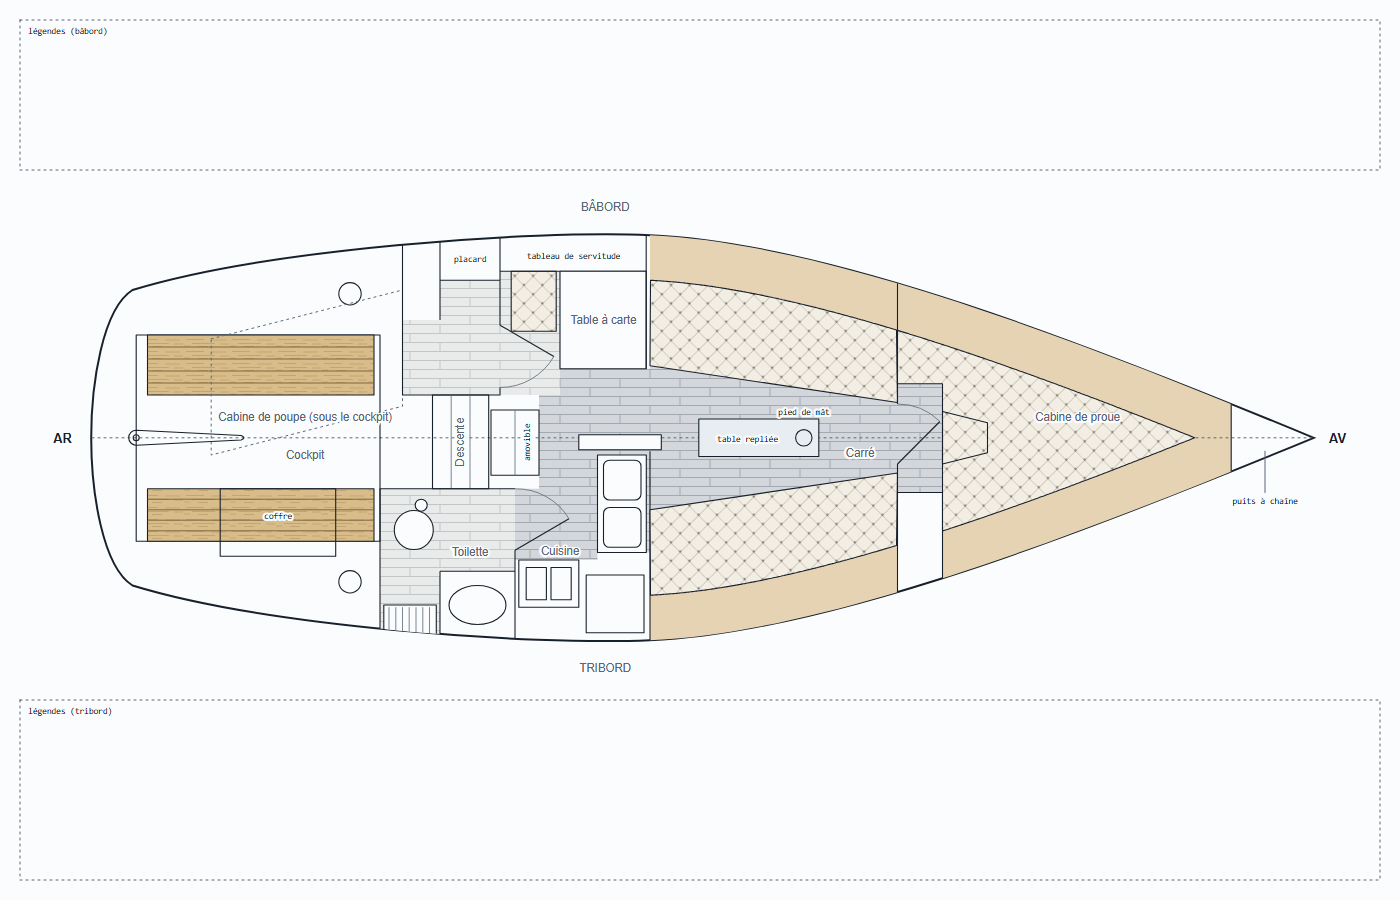
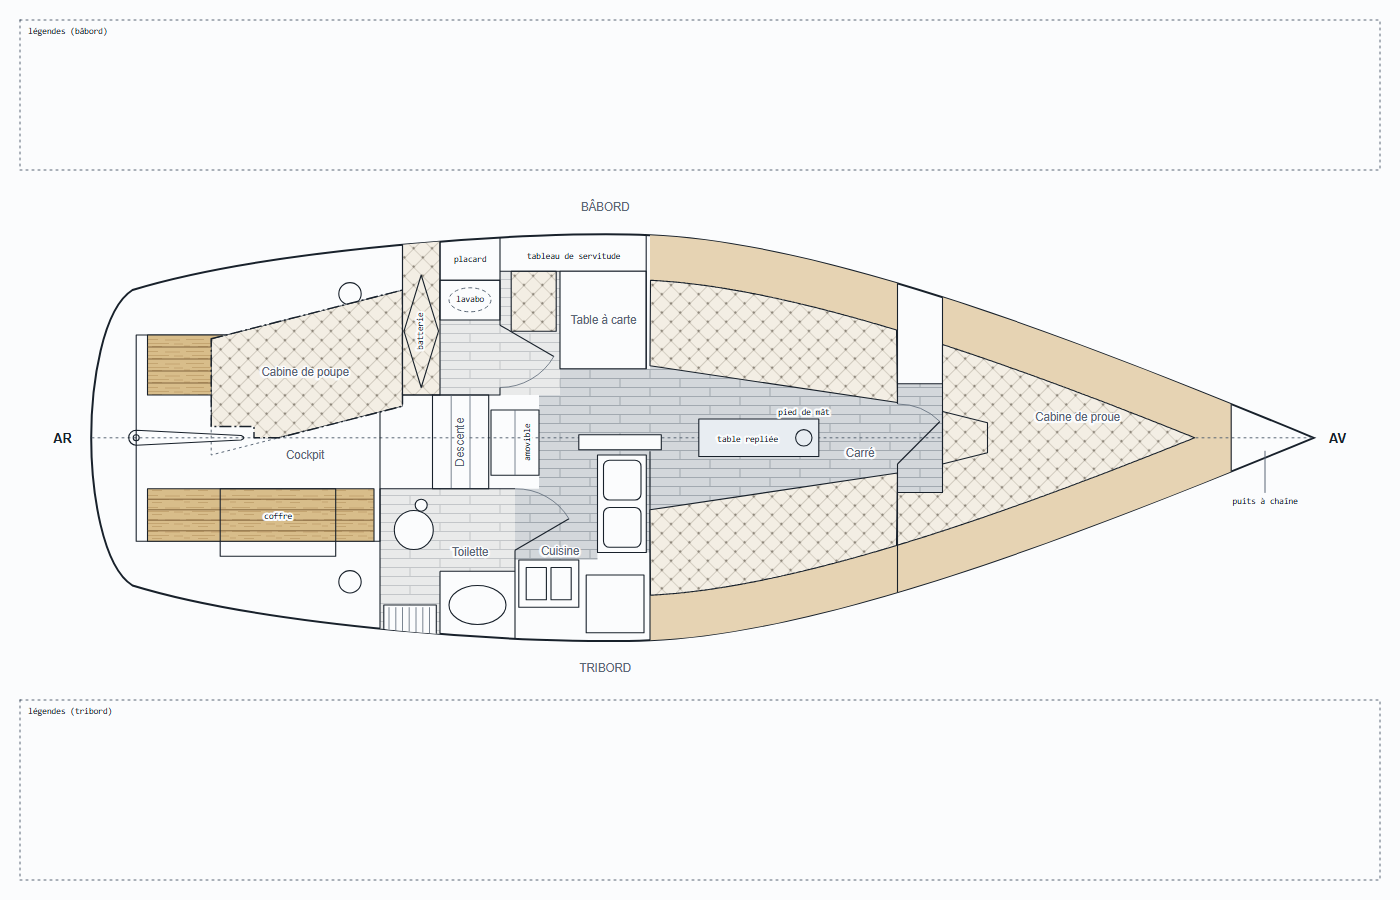
Plan de bord : cabine de proue prolongée à tribord, literie de la cabine de poupe
Correction : c'est la penderie tribord qui est supprimée, la bâbord revient.
Cabine de poupe : literie prolongée jusqu'au meuble, trappe en losange
d'accès à la batterie, meuble bas du lavabo déposé, arrachement du cockpit
côté bâbord jusqu'à l'axe, sans toucher la barre.

Changed region(s): [[0.1229, 0.2489, 0.3686, 0.4978], [0.6143, 0.5289, 0.6757, 0.6533], [0.6143, 0.3111, 0.6757, 0.4356]]

diff --git a/brouillons/plan-de-bord/plan_bord.py b/brouillons/plan-de-bord/plan_bord.py
@@ -23,6 +23,8 @@ STYLE = STYLE.replace("  </style>", """    .amg{fill:none;stroke:var(--ink);stro
     .teck{fill:url(#pb-teck);stroke:var(--ink);stroke-width:1.1;stroke-linejoin:round}
     .teck-j{fill:none;stroke:var(--teck-j);stroke-width:.9}
     .vaig{fill:none;stroke:var(--vaig)}
+    .amg-d{fill:none;stroke:var(--muted);stroke-width:1;stroke-dasharray:4 3}
+    .arr{fill:none;stroke:var(--ink);stroke-width:1.4;stroke-dasharray:12 3 2 3;stroke-linejoin:round}
   </style>""")
 # textures (motifs en px)
 DEFS = """  <defs>
@@ -143,15 +145,15 @@ A(f'<path class="hull" d="{coque}"/>')
 A('<g clip-path="url(#pb-coque)">')
 
 A('<!-- Vaigrages latéraux, du bord au dossier (carré, cabine de proue) -->')
-A(f'<clipPath id="pb-vaig">{rect("", 760, 0, 1090, 700)}{rect("", 1090, 0, 1150, CY)}{rect("", 1150, 0, 1535, 700)}</clipPath>')
+A(f'<clipPath id="pb-vaig">{rect("", 760, 0, 1090, 700)}{rect("", 1090, CY, 1150, 700)}{rect("", 1150, 0, 1535, 700)}</clipPath>')
 A('<g clip-path="url(#pb-vaig)">')
 A(f'<path class="vaig" d="{coque}" stroke-width="{2 * K * 60:.1f}"/>')   # trait centré sur le bord : moitié visible
 A('</g>')
 
 A('<!-- Planchers, jusqu’au milieu des assises. Niveau bas : carré, cuisine ; '
   'niveau haut : cabine de poupe, table à carte, cabinet de toilette -->')
-A(path("sol-h", (480, 112), (560, 112), (560, 100), (755, 100), (755, 230),
-       (640, 230), (640, 265), (430, 265), (430, 165), (480, 165), close=True))
+A(path("sol-h", (480, 165), (560, 165), (560, 100), (755, 100), (755, 230),
+       (640, 230), (640, 265), (480, 265), close=True))
 A(path("sol-h", (400, 390), (580, 390), (580, 500), (480, 500), (480, 598), (400, 598), close=True))
 db = dossier(760, 1090)
 mi = [(x, (y + 226 + (x - 760) * 49 / 330) / 2) for x, y in db]   # milieu entre dossier et bord d'assise
@@ -179,7 +181,21 @@ A(f'<path class="amg" d="M{P(75, CY-10)} L{P(215, CY-3)} Q{P(222, CY)} {P(215, C
 A(circle("amg", 75, CY, 4))                  # mèche
 A(path("bound", (175, 190), (430, 125), (430, 280), (175, 345), close=True))  # couchette sous cockpit
 
-A('<!-- Accès à la cabine de poupe : passage, placard, porte -->')
+A('<!-- Arrachement du cockpit : couchette de la cabine de poupe, côté bâbord jusqu’à l’axe, sans toucher la barre -->')
+arr = [(175, 190), (430, 125), (430, 280), (265, CY), (232, CY), (232, CY-15), (175, CY-15)]
+A(f'<clipPath id="pb-arr">{path("", *arr, close=True)}</clipPath>')
+A(path("bg", *arr, close=True))
+A('<g clip-path="url(#pb-arr)">')
+A(path("mat", (175, 190), (430, 125), (430, 280), (175, 345), close=True))
+A('</g>')
+A(path("arr", *arr, close=True))
+
+A('<!-- Cabine de poupe : literie prolongée jusqu’au meuble, trappe en losange (batterie), '
+  'meuble bas du lavabo déposé, placard, porte -->')
+A(rect("mat", 430, 40, 480, 265))
+A(path("amg", (455, 105), (478, 180), (455, 255), (432, 180), close=True))   # pièce amovible, accès batterie
+A(rect("amg-b", 480, 112, 560, 165))         # meuble bas
+A(ellipse("amg-d", 520, 138, 28, 16))        # emplacement du lavabo déposé
 A(path("amg", (560, 255), (560, 265), (430, 265), (430, 52)))
 A(path("amg", (560, 172), (560, 47)))
 A(path("amg", (480, 52), (480, 165)))
@@ -229,18 +245,18 @@ A(path("mat", *[(x, M(y)) for x, y in db], (1090, M(275)), (760, M(226)), close=
 A(rect("amg-f", 825, CY-25, 985, CY+25))     # table repliée, sur l'axe
 A(circle("amg", 965, CY, 11))                # pied de mât, dans la table, à son bout avant
 
-A('<!-- Cloison avant du carré, penderie tribord, porte de la cabine de proue -->')
+A('<!-- Cloison avant du carré, penderie bâbord, porte de la cabine de proue -->')
 A(path("amg", (1090, 40), (1090, 277)))
 A(path("amg", (1090, 357), (1090, 604)))
-A(path("amg", (1150, 604), (1150, 395), (1090, 395)))
+A(path("amg", (1150, 40), (1150, 250), (1090, 250)))
 A(porte((1090, 357), (1090, 277), (1146.6, 300.4)))
 
 A('<!-- Cabine de proue : couchette en V entre les dossiers, qui se rejoignent derrière le puits à chaîne ; '
-  'à bâbord, elle se prolonge jusqu’au carré -->')
-dpb = dossier(1090, 1700)
+  'à tribord, elle se prolonge jusqu’au carré -->')
 dp = dossier(1150, 1700)
-A(path("mat", (1090, dpb[0][1]), *dpb, *[(x, M(y)) for x, y in reversed(dp[:-1])],
-       (1150, M(dp[0][1])), (1150, 250), (1090, 250), close=True))
+dpt = dossier(1090, 1700)
+A(path("mat", (1150, dp[0][1]), *dp, *[(x, M(y)) for x, y in reversed(dpt[:-1])],
+       (1090, M(dpt[0][1])), (1090, 395), (1150, 395), close=True))
 A(path("amg", (1150, 287), (1210, 302), (1210, 342), (1150, 357), close=True))  # trapèze, sur le bord de la couchette
 A(path("amg", (1535, 150), (1535, 494)))     # cloison du puits à chaîne
 
@@ -248,7 +264,7 @@ A('</g>')
 # repères d'orientation et zones (provisoires)
 LBL = [
     ("Cockpit", 300, 350),
-    ("Cabine de poupe (sous le cockpit)", 300, 300),
+    ("Cabine de poupe", 300, 240),
     ("Table à carte", 698, 170),
     ("Descente", 512, 328, -90),
     ("Toilette", 520, 480),
@@ -260,6 +276,8 @@ el.append('<!-- Noms de zones (provisoires) -->')
 for s, x, y, *r in LBL:
     el.append(text("ts mid halo", x, y, s, *r))
 el.append(text("pin mid halo", 520, 87, "placard"))
+el.append(text("pin mid halo", 520, 141, "lavabo"))
+el.append(text("pin mid halo", 458, 180, "batterie", -90))
 el.append(text("pin mid halo", 658, 84, "tableau de servitude"))
 el.append(text("pin mid halo", 600, 328, "amovible", -90))
 el.append(text("pin mid halo", 264, 430, "coffre"))

diff --git a/brouillons/plan-de-bord/README.md b/brouillons/plan-de-bord/README.md
@@ -4,10 +4,10 @@ Nouveau folio vu de dessus recensant les objets importants du bord (fusées de d
 
 Phases :
 
-1. Fond de plan vide, redessiné d'après `plan-emmenagements-constructeur.jpg` : fait le 16/10 (`folio-6-plan-de-bord.svg`, aperçu `apercu.png`), puis corrigé d'après les remarques de l'utilisateur. Écarts voulus avec le plan constructeur : lavabo de la cabine de poupe déposé (placard conservé), table du carré représentée repliée, quille et liston non dessinés. Portes avec leur ouverture : cabine de poupe, cabinet de toilette, cabine de proue. Textures (reprises de `plan_voilier_v2.svg`) : planchers en lames sur deux niveaux (carré et cuisine ; cabine de poupe, table à carte et cabinet de toilette), arrêtés au milieu des assises ; matelassage capitonné des assises et de la couchette de proue ; vaigrages brun clair, du bord au dossier, dans le carré et la cabine de proue ; teck des bancs du cockpit.
+1. Fond de plan vide, redessiné d'après `plan-emmenagements-constructeur.jpg` : fait le 16/10 (`folio-6-plan-de-bord.svg`, aperçu `apercu.png`), puis corrigé d'après les remarques de l'utilisateur. Écarts voulus avec le plan constructeur : lavabo de la cabine de poupe déposé (son emplacement est marqué en pointillés sur le meuble bas, conservé avec le placard), couchette de la cabine de poupe montrée par un arrachement du cockpit (côté bâbord, jusqu'à l'axe), penderie tribord de la cabine de proue supprimée (la couchette va jusqu'au carré), table du carré représentée repliée, quille et liston non dessinés. Portes avec leur ouverture : cabine de poupe, cabinet de toilette, cabine de proue. Textures (reprises de `plan_voilier_v2.svg`) : planchers en lames sur deux niveaux (carré et cuisine ; cabine de poupe, table à carte et cabinet de toilette), arrêtés au milieu des assises ; matelassage capitonné des assises et de la couchette de proue ; vaigrages brun clair, du bord au dossier, dans le carré et la cabine de proue ; teck des bancs du cockpit.
 2. Données des objets dans le relevé : nom, description, couleur, zone, affichage sur ce plan.
 3. Légendes dessinées sur le folio.
 
-`python brouillons/plan-de-bord/plan_bord.py` régénère le SVG ; il reprend le bloc `<style>` du folio 0 et y ajoute les classes `amg`, `amg-f`, `amg-b`, `amg-l`, `halo`, `sol-b`, `sol-h`, `mat`, `teck`, `teck-j`, `vaig`, les variables de couleur des textures et leurs motifs (`<defs>`), à reporter dans tous les folios et dans `page.py` à l'intégration.
+`python brouillons/plan-de-bord/plan_bord.py` régénère le SVG ; il reprend le bloc `<style>` du folio 0 et y ajoute les classes `amg`, `amg-f`, `amg-b`, `amg-d`, `amg-l`, `arr`, `halo`, `sol-b`, `sol-h`, `mat`, `teck`, `teck-j`, `vaig`, les variables de couleur des textures et leurs motifs (`<defs>`), à reporter dans tous les folios et dans `page.py` à l'intégration.
 
 Hors de `Electricité/` tant que l'emplacement définitif n'est pas décidé (proposé : `Electricité/livret/`, ou un dossier propre à l'armement) ; le vérificateur ne le contrôle donc pas encore.
